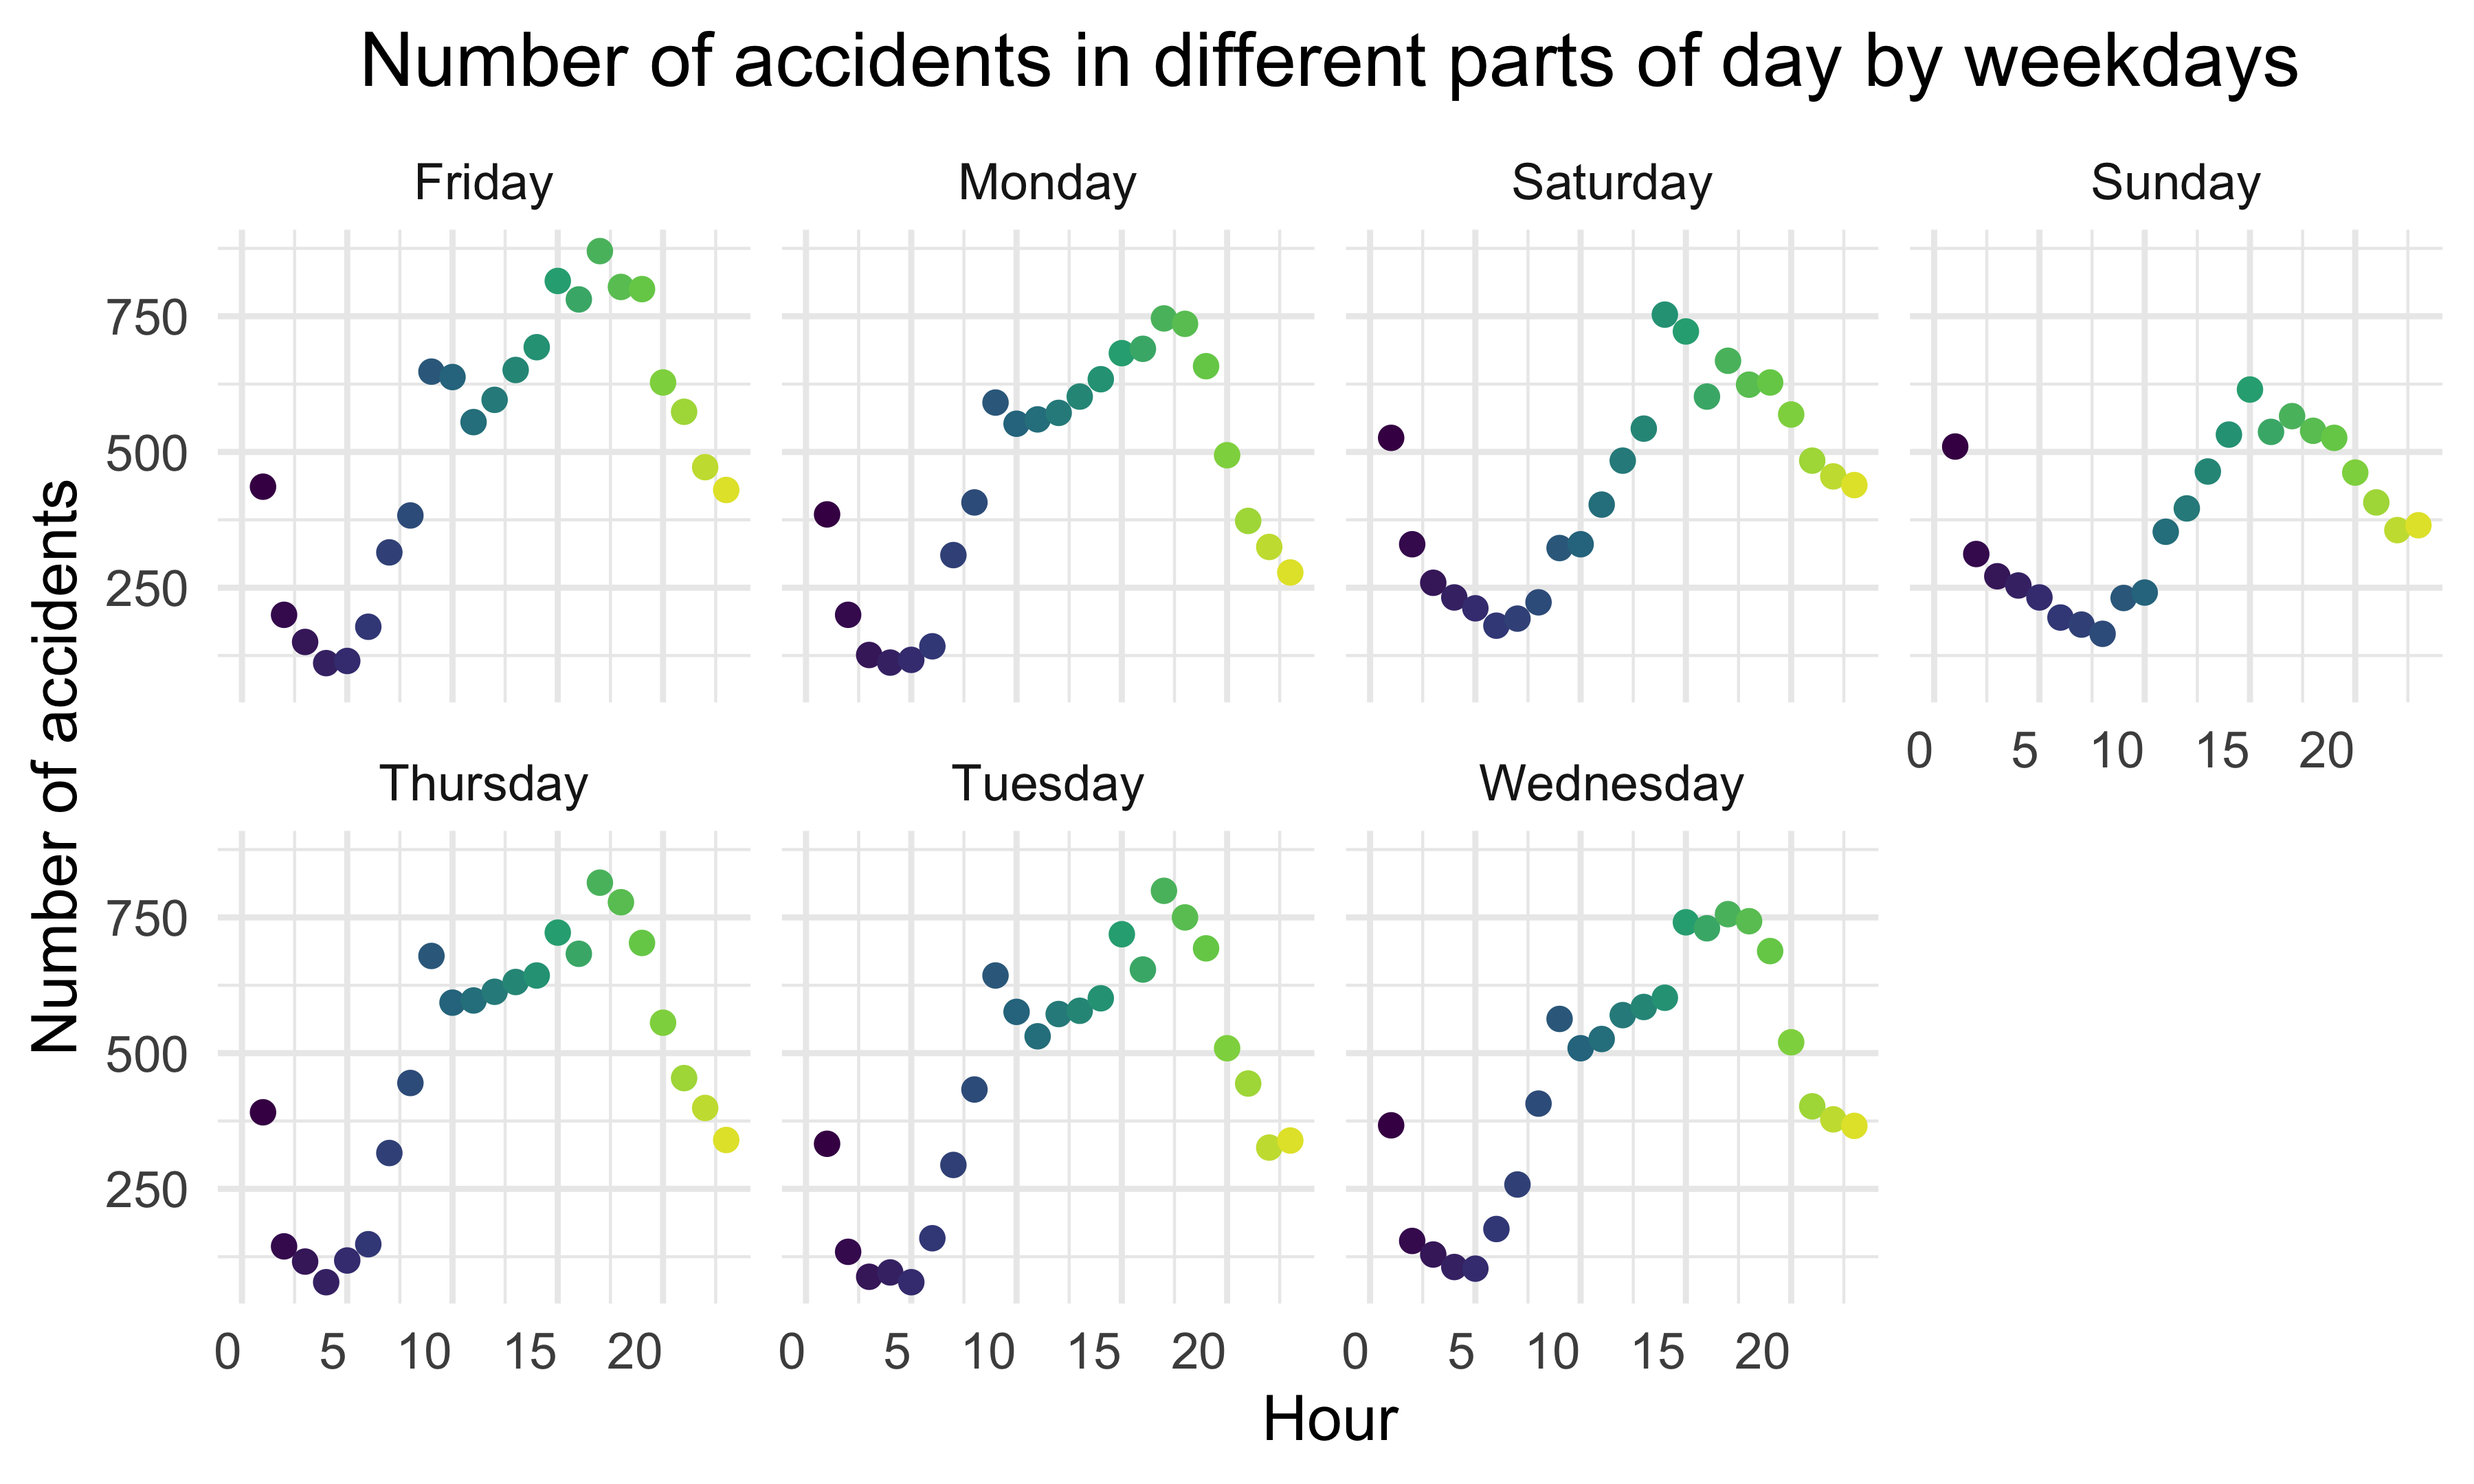
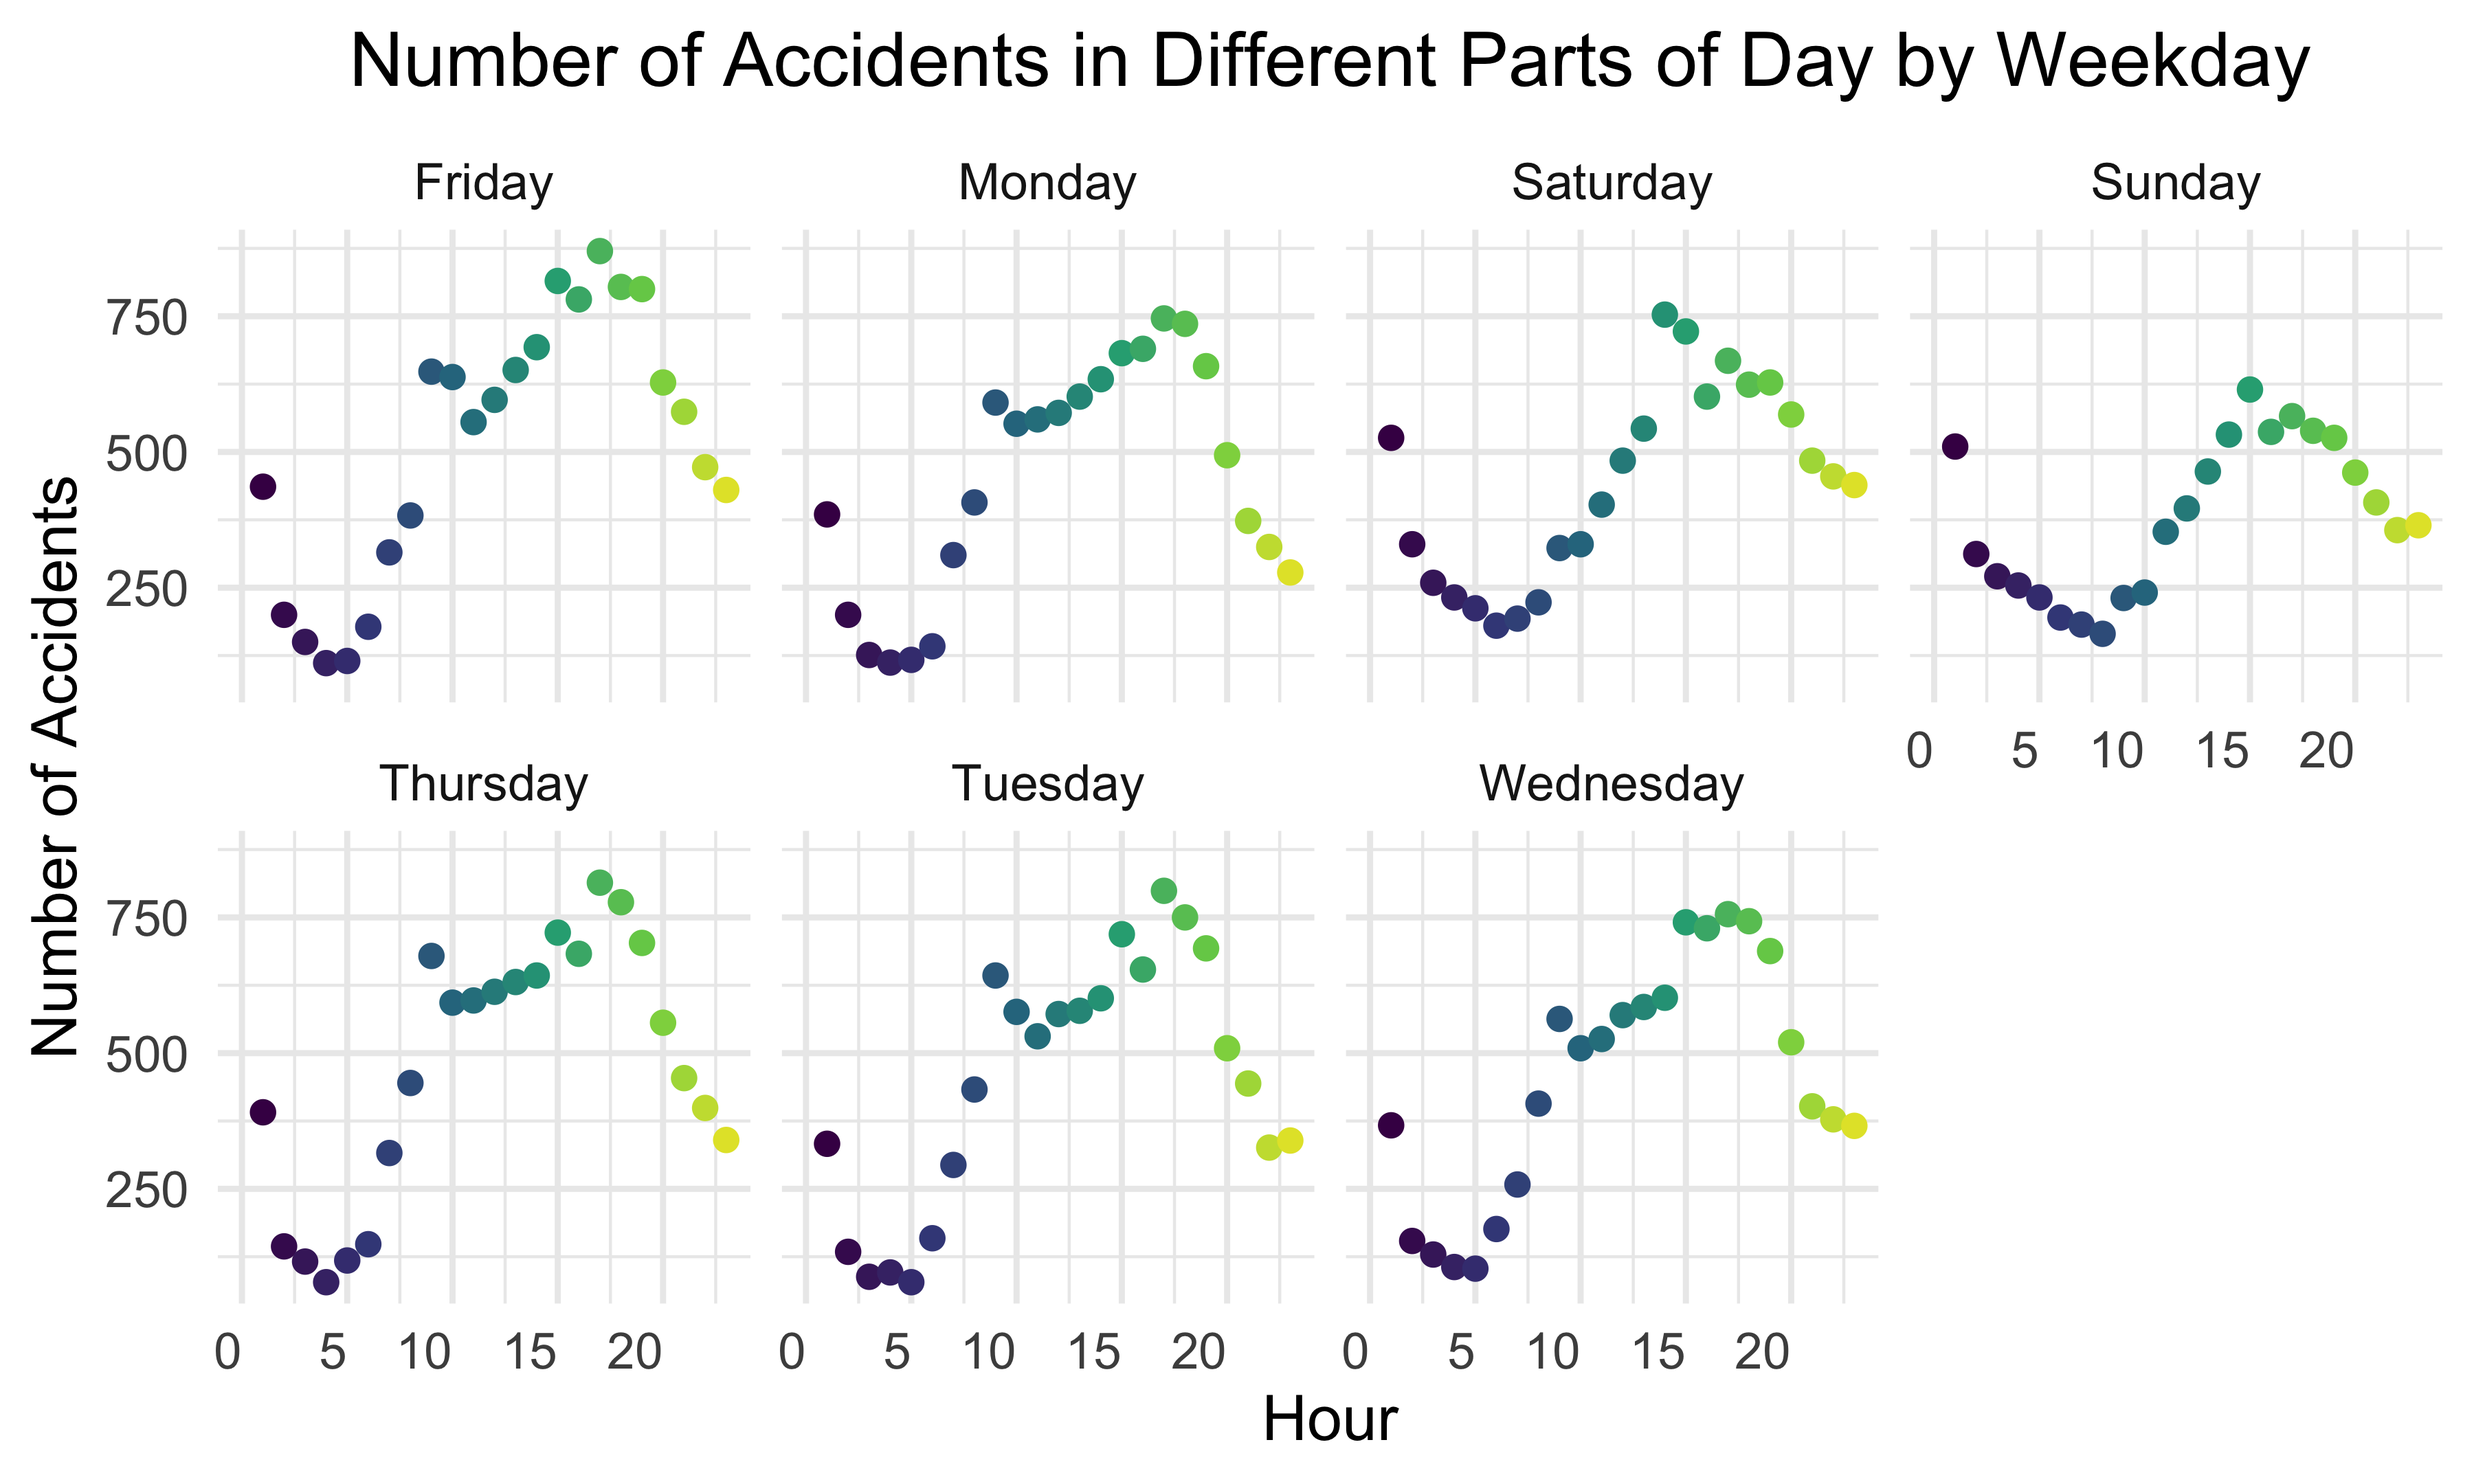
Update the time page

Changed region(s): [[0.1244, 0.0, 0.9333, 0.062], [0.0, 0.3102, 0.0311, 0.7134]]

diff --git a/time.html b/time.html
@@ -413,12 +413,12 @@ div.tocify {
 
 <div id="car-accident-over-time" class="section level3">
 <h3>Car Accident over Time</h3>
-<p>In this section, we’ll focus on the trend of car accidents over time.
-We will analyse the pattern that number of car accidents follows through
-hour, day, and month among five boroughs.</p>
+<p>In this section, we will explore the trend of car accidents over
+time. We will analyze the pattern of number of car accidents followed
+through hour, day, and month in five boroughs.</p>
 </div>
 <div id="total-accidents-over-month-by-borough" class="section level3">
-<h3>Total accidents over month by borough</h3>
+<h3>Total Accidents over Month by Borough</h3>
 <pre class="r"><code>accidents1 %&gt;% 
   filter(!is.na(borough)) %&gt;%
   separate(crash_date, into = c(&#39;year&#39;, &#39;month&#39;, &#39;day&#39;), sep = &quot;-&quot;) %&gt;% 
@@ -447,13 +447,13 @@ hour, day, and month among five boroughs.</p>
 <p>This graph shows the total number of accidents in 5 boroughs from
 January to August in 2020. We can see that in January, February, and
 March, the accident numbers in these boroughs are much higher than in
-other months, and the accident numbers in April is the lowest for 5
-boroughs. Also, Brooklyn has the largest accident number and Saten
+other months, and the accident numbers in April are the lowest for 5
+boroughs. Also, Brooklyn has the largest accident number and Staten
 Island has the smallest accident number among all boroughs in every
 month in New York.</p>
 </div>
 <div id="total-accidents-over-weekday" class="section level3">
-<h3>Total accidents over weekday</h3>
+<h3>Total Accidents over Weekday</h3>
 <pre class="r"><code>accidents1 %&gt;% 
   filter(!is.na(borough)) %&gt;%
   mutate(crash_date = as.Date(crash_date),
@@ -476,13 +476,14 @@ month in New York.</p>
     color = &quot;Borough&quot;
     )</code></pre>
 <p><img src="time_files/figure-html/unnamed-chunk-3-1.png" width="90%" /></p>
-<p>This plot shows the total accident number over weekday by borough. We
-can see that 5 boroughs have a similar trend, and the accident number is
-the largest on Friday and lowest on Sunday. Brooklyn also has the
-largest daily accident number and Staten Island has the lowest.</p>
+<p>Next, this plot shows the total accident number over weekday by
+borough. We can tell that 5 boroughs have a similar trend, and the
+accident number is the highest on Friday and lowest on Sunday. Brooklyn
+has the highest daily accident number and Staten Island has the lowest
+in 5 boroughs.</p>
 </div>
 <div id="total-accidents-over-hour" class="section level3">
-<h3>Total accidents over hour</h3>
+<h3>Total Accidents over Hour</h3>
 <pre class="r"><code>accidents1 %&gt;%
   filter(!is.na(borough)) %&gt;%
   separate(crash_time, into = c(&#39;hour&#39;, &#39;minute&#39;, &#39;second&#39;), sep = &quot;:&quot;) %&gt;% 
@@ -501,13 +502,13 @@ largest daily accident number and Staten Island has the lowest.</p>
 <p><img src="time_files/figure-html/unnamed-chunk-4-1.png" width="90%" /></p>
 <p>This plot shows the total accident number during 24 hours of a day by
 borough. We can see that 5 boroughs have a similar daily trend. The
-number of accidents is relatively low from 0:00 am to 6:00 am, then
-increases and keep high in 8:00 am to 17:00 pm, and drops until 24:00
-pm.</p>
+number of accidents is relatively low from 12:00 am to 6:00 am, then
+increases and keeps high from 8:00 am to 5:00 pm, and drops until 12:00
+am.</p>
 </div>
-<div id="total-accidents-in-different-part-of-day-by-weekdays"
+<div id="total-accidents-in-different-part-of-a-day"
 class="section level3">
-<h3>Total accidents in different part of day by weekdays</h3>
+<h3>Total Accidents in Different Part of a Day</h3>
 <pre class="r"><code>accidents1 %&gt;%
   group_by(hour, weekday) %&gt;%
   count(hour) %&gt;%
@@ -520,21 +521,22 @@ class="section level3">
         legend.position = &quot;none&quot;,
         plot.title = element_text(hjust = 0.5)) +
   labs(
-    title = &quot;Number of accidents in different parts of day by weekdays&quot;,
+    title = &quot;Number of Accidents in Different Parts of Day by Weekday&quot;,
     x = &quot;Hour&quot;,
-    y = &quot;Number of accidents&quot;) +
+    y = &quot;Number of Accidents&quot;) +
   scale_x_continuous(limits = c(0, 23)) +
   facet_wrap(~ weekday, nrow = 2) </code></pre>
 <p><img src="time_files/figure-html/unnamed-chunk-5-1.png" width="90%" /></p>
-<p>By dividing the number of car accidents by weekdays and hours, we can
-find that the number of car accidents tends to increase and then
-decrease during the day. Among them, 13:00 to 19:00 is the peak period
-of car accidents. During the week, the number of crashes is higher on
-weekdays than on weekends, and the peak of crashes is higher on
-weekdays. The reason for the above may be that people are more likely to
-be involved in crashes on weekdays between 13:00 and 19:00, when they
-are commuting in the rush hours. On weekends, when people spend more
-time at home, so the number of car accidents is relatively lower.</p>
+<p>By stratifying the number of car accidents by weekdays and hours, we
+found out the number of car accidents tends to increase and then
+decrease during the day. The number of accidents reached the peak from
+1:00 pm to 7:00 pm. During the week, the number of accidents is higher
+on weekdays than on weekends, and the maximum number of accidents is
+higher on weekdays. The reason for this phenomenon might be that people
+are more likely to be involved in accidents on weekdays between 1:00 pm
+and 7:00 pm, when they are commuting in rush hours. On weekends, people
+will spend more time at home, so the number of car accidents is
+relatively lower.</p>
 </div>
 
 
